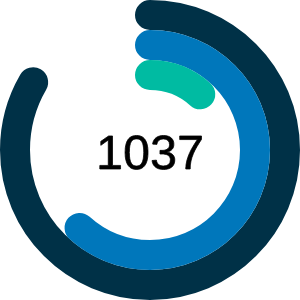
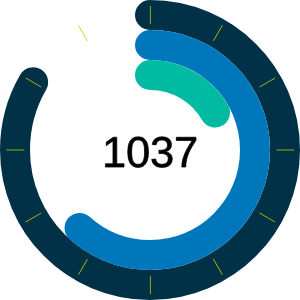
add hour marks

diff --git a/clock.html b/clock.html
@@ -4,11 +4,14 @@
 		<meta http-equiv="content-type" content="text/html; charset=utf-8" />
 
 		<style type="text/css">
+			.rotate {
+				transform: rotate(-90deg);
+				transform-origin: center;
+			}
+
 			#clock-container {
 				width: 100px;
 				height: 100px;
-				transform: rotate(-90deg);
-				transform-origin: center;
 			}
 
 			#time-text {
@@ -17,21 +20,94 @@
 				transform: rotate(90deg);
 				transform-origin: center;
 			}
+
+			.hour-tick-12 {
+				transform: rotate(0deg);
+				transform-origin: center;
+			}
+
+			.hour-tick-01 {
+				transform: rotate(30deg);
+				transform-origin: center;
+			}
+
+			.hour-tick-02 {
+				transform: rotate(60deg);
+				transform-origin: center;
+			}
+
+			.hour-tick-03 {
+				transform: rotate(90deg);
+				transform-origin: center;
+			}
+
+			.hour-tick-04 {
+				transform: rotate(120deg);
+				transform-origin: center;
+			}
+
+			.hour-tick-05 {
+				transform: rotate(150deg);
+				transform-origin: center;
+			}
+
+			.hour-tick-06 {
+				transform: rotate(180deg);
+				transform-origin: center;
+			}
+
+			.hour-tick-07 {
+				transform: rotate(210deg);
+				transform-origin: center;
+			}
+
+			.hour-tick-08 {
+				transform: rotate(240deg);
+				transform-origin: center;
+			}
+
+			.hour-tick-09 {
+				transform: rotate(270deg);
+				transform-origin: center;
+			}
+
+			.hour-tick-10 {
+				transform: rotate(300deg);
+				transform-origin: center;
+			}
+
+			.hour-tick-11 {
+				transform: rotate(330deg);
+				transform-origin: center;
+			}
 		</style>
 	</head>
 
 	<body>
-		<svg id="clock-container" viewbox="0 0 100 100">
+		<svg id="clock-container" viewbox="0 0 100 100" class="rotate">
 			<circle id="hour" cx="50%" cy="50%" r="45" stroke="#003147" stroke-width="10" stroke-dasharray="0" stroke-linecap="round" fill="none" />
 			<circle id="minute" cx="50%" cy="50%" r="35" stroke="#0077BB" stroke-width="10" stroke-dasharray="0" stroke-linecap="round" fill="none" />
 			<circle id="second" cx="50%" cy="50%" r="25" stroke="#00bba2" stroke-width="10" stroke-dasharray="0" stroke-linecap="round" fill="none" />
 			<text id="time-text" x="50%" y="50%" text-anchor="middle" stroke="#000000" stroke-width=".25" dy=".4em"></text>
+			<line x1="98" y1="50" x2="92" y2="50" stroke="#CCCC00" stroke-width=".25" class="hour-tick-12" /> <!-- 12 -->
+			<line x1="98" y1="50" x2="92" y2="50" stroke="#CCCC00" stroke-width=".25" class="hour-tick-01" /> <!-- 1 -->
+			<line x1="98" y1="50" x2="92" y2="50" stroke="#CCCC00" stroke-width=".25" class="hour-tick-02" /> <!-- 2 -->
+			<line x1="98" y1="50" x2="92" y2="50" stroke="#CCCC00" stroke-width=".25" class="hour-tick-03" /> <!-- 3 -->
+			<line x1="98" y1="50" x2="92" y2="50" stroke="#CCCC00" stroke-width=".25" class="hour-tick-04" /> <!-- 4 -->
+			<line x1="98" y1="50" x2="92" y2="50" stroke="#CCCC00" stroke-width=".25" class="hour-tick-05" /> <!-- 5 -->
+			<line x1="98" y1="50" x2="92" y2="50" stroke="#CCCC00" stroke-width=".25" class="hour-tick-06" /> <!-- 6 -->
+			<line x1="98" y1="50" x2="92" y2="50" stroke="#CCCC00" stroke-width=".25" class="hour-tick-07" /> <!-- 7 -->
+			<line x1="98" y1="50" x2="92" y2="50" stroke="#CCCC00" stroke-width=".25" class="hour-tick-08" /> <!-- 8 -->
+			<line x1="98" y1="50" x2="92" y2="50" stroke="#CCCC00" stroke-width=".25" class="hour-tick-09" /> <!-- 9 -->
+			<line x1="98" y1="50" x2="92" y2="50" stroke="#CCCC00" stroke-width=".25" class="hour-tick-10" /> <!-- 10 -->
+			<line x1="98" y1="50" x2="92" y2="50" stroke="#CCCC00" stroke-width=".25" class="hour-tick-11" /> <!-- 11 -->
 		</svg>
 		<script type="text/javascript">
 			"use strict";
 
 			let timeout = 0;
 			let is24HourFormat = true;
+			let showTime = 1;
 
 			const PI = 3.14159265358979323846264338327950288419716939937510582097494459230781640628620899862803482534211706798214808651328230664709384460955058223172535940812848111745028410270193852110555964462294895493038196442881097566593344612847564823378;
 			let circumferenceHour = 0;
@@ -65,17 +141,21 @@
 				document.getElementById("minute").setAttribute("stroke-dasharray", (currentMinute * degreePerMinute) + "," + circumferenceMinute);
 				document.getElementById("second").setAttribute("stroke-dasharray", (currentSecond * degreePerSecond) + "," + circumferenceSecond);
 
-				// Set center
-				if (is24HourFormat) {
-					// Add leading 0
-					currentHour = (date.getHours() > 10) ? date.getHours() : "0" + currentHour;
+				switch(showTime) {
+					case 1:
+						// Set center
+						if (is24HourFormat) {
+							// Add leading 0
+							currentHour = (date.getHours() > 10) ? date.getHours() : "0" + currentHour;
+						}
+
+						document.getElementById("time-text").innerHTML = currentHour +
+						                                                (is24HourFormat ? "" : ":") + // Show ':' if 12 format
+						                                                (currentMinute < 10 ? "0" + currentMinute : currentMinute); // Add leading 0
+
+						timeout = setTimeout(tick, 1000);
+						break;
 				}
-
-				document.getElementById("time-text").innerHTML = currentHour +
-				                                                (is24HourFormat ? "" : ":") + // Show ':' if 12 format
-				                                                (currentMinute < 10 ? "0" + currentMinute : currentMinute); // Add leading 0
-
-				timeout = setTimeout(tick, 1000);
 			}
 		</script>
 	</body>
